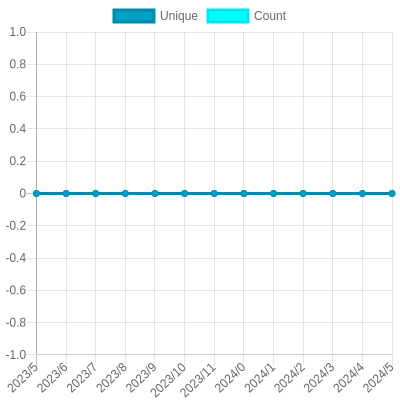
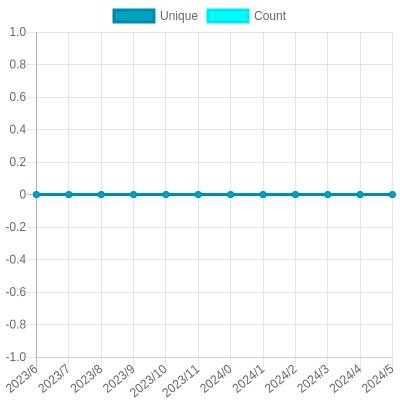
Update views

diff --git a/README.md b/README.md
@@ -26,7 +26,7 @@ The project created and maintained by [gayanvoice](https://github.com/gayanvoice
 			</a>
 		</td>
 		<td>
-			2023/6/28 12:57 AM UTC
+			2023/6/29 12:55 AM UTC
 		</td>
 		<td>
 			0
@@ -37,7 +37,7 @@ The project created and maintained by [gayanvoice](https://github.com/gayanvoice
 	</tr>
 </table>
 
-<small><i>Last updated on 2023/6/30 6:11 PM UTC</i></small>
+<small><i>Last updated on 2023/7/1 1:00 AM UTC</i></small>
 
 ## ✂Copy and 📋 Paste
 ### Total Views Badge

diff --git a/readme/650642365/year.md b/readme/650642365/year.md
@@ -150,21 +150,10 @@
 			<code>0</code>
 		</td>
 	</tr>
-	<tr>
-		<td>
-			<code>2022/6/1</code>
-		</td>
-		<td>
-			<code>0</code>
-		</td>
-		<td>
-			<code>0</code>
-		</td>
-	</tr>
 </table>
 
 </details>
-<small><i>Last updated on 2023/6/30 6:11 PM UTC</i></small>
+<small><i>Last updated on 2023/7/1 1:00 AM UTC</i></small>
 
 ## ✂Copy and 📋 Paste
 ### SVG Badge
